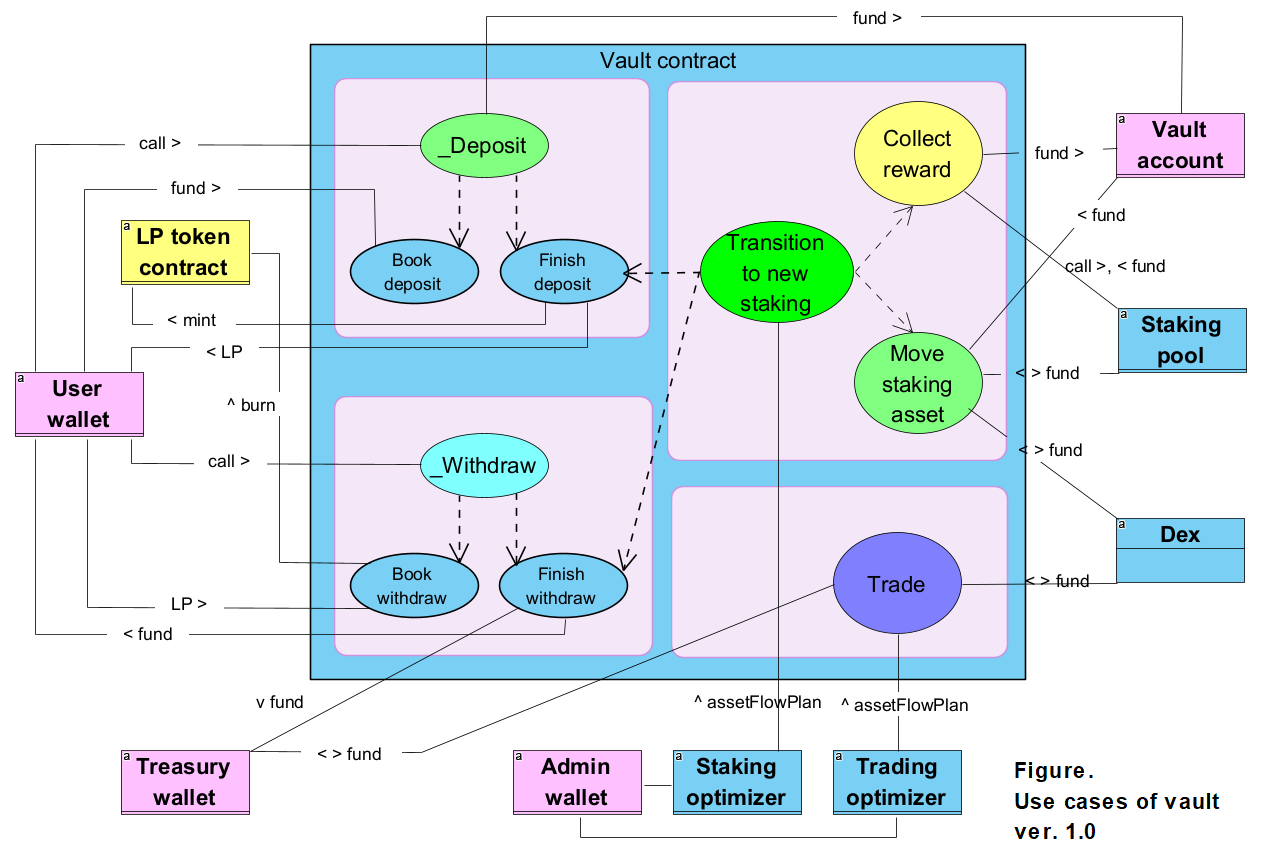
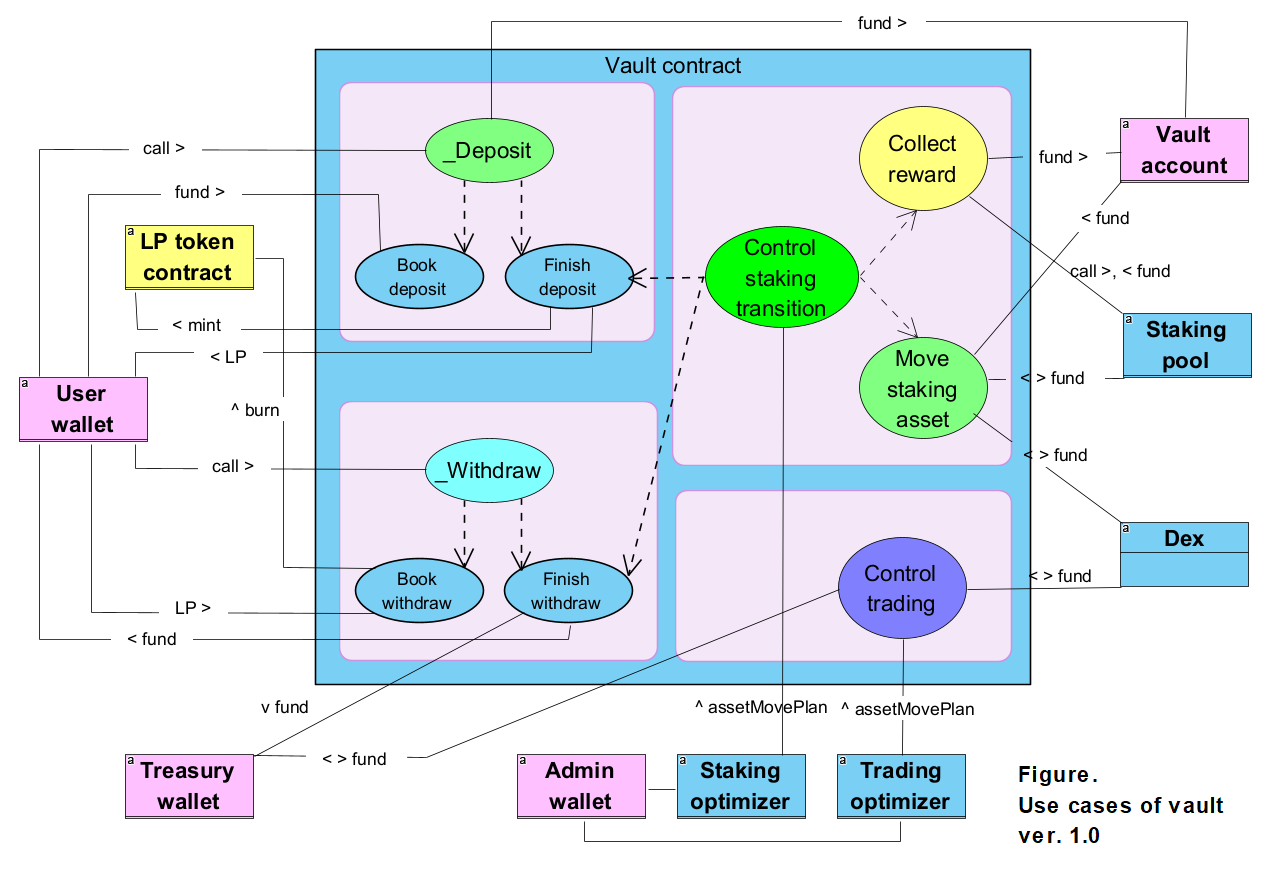
md

diff --git a/Architecture/Architecture.md b/Architecture/Architecture.md
@@ -17,18 +17,26 @@
 ### 1. Specifying system requirements
 <br/>
 
-- Major concepts and requirements: **Deposit**, **stake**, **compound**, **withdraw**
-    - A user is a wallet, technically. If a user has multiple wallets, the user is the wallet that is currently involved with Mozaic by the user's current action.
-    - A users **deposit**s their assets from their wallet to Mozaic vault wallet, in exchange with LP tokens.
-    - Mozaic **stake**s the deposited assets from vault wallet(s) to staking pools. Staking is on its behalf of Mozaic and not of individual users.
-    - Mozaic **stake**s rewards coming from its staking on its behalf. Or, Mozaic **compound**s rewards. Note: With compounding, the total assets become a mixture of deposited and rewarded assets.
-    - *Mozaic stakes on a collective basis.* All deposited assets are staked and performs collectively. You cannot track which user's deposit is staked on which staking pool and performs how distinctively.
-    - *Mozaic stakes on a global basis.* No matter what tokens on what chain a user deposits, Mozaic will convert freely the deposits to listed acceptable token on any listed chain, to maximize profit.
-    - **Staking stock** is the sum of total currently staked assets and total currently pending rewards on staking pools. 
-    - An amount of LP token held in a user's wallet represents the user's proportional share of **Staking stock**.
-    - A user's **Stock share** is part of **Staking stock** covered by the LP tokens held in the user's wallet.
-    - A user **withdraw**s assets from their **Stock share**, on a whole or partial basis, in any listed token they prefer.
+#### 1.1 Major concepts and requirements: **Deposit**, **stake**, **compound**, **withdraw**
+- A user is a wallet, technically. If a user has multiple wallets, the user is the wallet that is currently involved with Mozaic by the user's current action.
+- A users **deposit**s their assets from their wallet to Mozaic vault wallet, in exchange with LP tokens.
+- Mozaic **stake**s the deposited assets from vault wallet(s) to staking pools. Staking is on its behalf of Mozaic and not of individual users.
+- Mozaic **stake**s rewards coming from its staking on its behalf. Or, Mozaic **compound**s rewards. Note: With compounding, the total assets become a mixture of deposited and rewarded assets.
+- *Mozaic stakes on a collective basis.* All deposited assets are staked and performs collectively. You cannot track which user's deposit is staked on which staking pool and performs how distinctively.
+- *Mozaic stakes on a global basis.* No matter what tokens on what chain a user deposits, Mozaic will convert freely the deposits to listed acceptable token on any listed chain, to maximize profit.
+- **Staking stock** is the sum of total currently staked assets and total currently pending rewards on staking pools. 
+- An amount of LP token held in a user's wallet represents the user's proportional share of **Staking stock**.
+- A user's **Stock share** is part of **Staking stock** covered by the LP tokens held in the user's wallet.
+- A user **withdraw**s assets from their **Stock share**, on a whole or partial basis, in any listed token they prefer.
+<br>
 
+#### 1.2 Lawful responsibility and freedom of the system
+- **Guaranteed Withdrawal**: The system is legally obliged to allow a user to withdraw the full amount of assets that the user have deposited in the system, in XXX hours after the user's request.
+- **Unguaranteed Profit**: The system is not legally obliged to return profit to a user who deposited assets in the system.
+- **Guaranteed Asset Control**: No one other than the system can move assets/profits.
+- **Transparent Logging**: All asset/profit creation/move must be correctly logged in/at an available format and place.
+- **Transparent Profit**: The division of profit among users must be transparently in accordance with the promise.
+<br>
 
 Mozaic system has aggregational and DAO use cases.
 Aggregational use cases are shown in the following figure:
@@ -41,13 +49,13 @@ Aggregational use cases are shown in the following figure:
 
 The use cases and external actors are identified as below:
 - **Compound**: This hidden use case compounds rewards. Idle assets should not ba allowed, and all rewards should be compounded as much and soon as possible.
-- **Execute asset flow**: This use case checks, carry out, and keeps track of asset moves. The assets managed by the system can only be moved by this use case transparently.
-- **Deposit**: This use case deposits the user's assets in the system. **User** invokes this use case in the hope that Mozaic system will **Optimize staking** of the deposited assets for them. **User** should be able to deposit any token that is listed on Mozaic on any chain where Mozaic is deployed. This use case includes **Execute asset flow**.
-- **Withdraw**: This use case withdraws from the user's rewards and, if needed, deposited assets. **User** should be able to withdraw any token that is listed on Mozaic on any chain where Mozaic is deployed, no matter they deposited what token on which chain. (The deposited assets are increased by perpetual compounding of rewards.) **User** invokes this use case. This use case includes **Execute asset flow**.
-- **Optimize staking**: This use case upgrades the staking portfolio to maximize rewards. **Profit generator**, a role of the system, invokes this use case *either on a regular basis or at randomly picked times*. This use case includes **Execute asset flow** and **Compound**. *By providing **Execute asset flow** with **assetFlowPlan**, this use case effectively prevents it from being involved with finding optimal staking portfolio.*
-- **Trade**: This use case swaps idle assets to get profit by using price changes. It calls **Dex**. *By providing **Execute asset flow** with **AssetFlowPlan**, this use case effectively prevents it from being involved with finding optimal trading orders.*
-- **Collect reward**: This use case  collects rewards from Staking pools. Use case Execute asset flow, when it is working under **Optimize staking**, is extended by this use case. This use case calls **Staking pool**.
-- **Move staking asset**: This use case move assets to/between/from, **Staking pools**. **Execute asset flow**, when it is working under Optimize staking, is extended by this use case. This use case calls **Staking pool**.
+- **Control asset move**: This use case checks, carry out, and keeps track of asset moves. The assets managed by the system can only be moved by this use case transparently.
+- **Deposit**: This use case deposits the user's assets in the system. **User** invokes this use case in the hope that Mozaic system will **Optimize staking** of the deposited assets for them. **User** should be able to deposit any token that is listed on Mozaic on any chain where Mozaic is deployed. This use case includes **Control asset move**.
+- **Withdraw**: This use case withdraws from the user's rewards and, if needed, deposited assets. **User** should be able to withdraw any token that is listed on Mozaic on any chain where Mozaic is deployed, no matter they deposited what token on which chain. (The deposited assets are increased by perpetual compounding of rewards.) **User** invokes this use case. This use case includes **Control asset move**.
+- **Optimize staking**: This use case upgrades the staking portfolio to maximize rewards. **Profit generator**, a role of the system, invokes this use case *either on a regular basis or at randomly picked times*. This use case includes **Control asset move** and **Compound**. *By providing **Control asset move** with **assetMovePlan**, this use case effectively prevents it from being involved with finding optimal staking portfolio.*
+- **Trade**: This use case swaps idle assets to get profit by using price changes. It calls **Dex**. *By providing **Control asset move** with **assetMovePlan**, this use case effectively prevents it from being involved with finding optimal trading orders.*
+- **Collect reward**: This use case  collects rewards from Staking pools. Use case Control asset move, when it is working under **Optimize staking**, is extended by this use case. This use case calls **Staking pool**.
+- **Move staking asset**: This use case move assets to/between/from, **Staking pools**. **Control asset move**, when it is working under Optimize staking, is extended by this use case. This use case calls **Staking pool**.
 - **Dex**: This actor is a smart contract that swaps between assets. Examples are pairs on Curve and Balancer DeFis.
 - **Staking pool**: This actor is a smart contract that allocates reward to assets that are staked in it. Examples are farming pools on CBridge and Stargate DeFis. <br>
 
@@ -63,7 +71,7 @@ Asset management of the system has the following State Machine:
 
 ### 2. Identifying vaults through its surrounding modules
 <br>
-As the first implementation step, we identify the module that executes use case **Execute asset flow**, as it seems to act as the controller and be one of unique features of the system.
+As the first implementation step, we identify the module that executes use case **Control asset move**, as it seems to act as the controller and be one of unique features of the system.
 The design decisions are as illustrated in the following figure:
 <br><br>
 <p align="center">
@@ -71,25 +79,25 @@ The design decisions are as illustrated in the following figure:
 </p>
 
 Functional modules are described below:
-- **Secondary valut contract**: This module is a smart contract and deployed on each chain except the home chain. It participates in the cooperation with its peer **Secondary vault contract**s to implement **Execute asset flow**, This module has at least the following private operations that work locally on its chain: collect_reward(...) and move_staking_asset(...)
+- **Secondary valut contract**: This module is a smart contract and deployed on each chain except the home chain. It participates in the cooperation with its peer **Secondary vault contract**s to implement **Control asset move**, This module has at least the following private operations that work locally on its chain: collect_reward(...) and move_staking_asset(...)
 - **Master vault contract**: This module is a smart contract, has global operations, in addition to the local operations inherited from **Secondary vault contract**, and is deployed on one and only one of the chains, called **Home chain**, where it takes the role of **Secondary vault contract**, as well as the the unique role of the master vault operating **LP token contract**.
 - **LP token contract**: This module manages the LP token balances of **User**s, which represents the their proportional share of the total assets of the system. Their share comprises of their deposited assets plus automatic compounding. *It is a deliberate design decision that the LP token only exists on **Home chain**.*
 - **User wallet**: This is a blockchain wallet and identifies a **User**. **User**'s actions; like deposit, withdraw, and harvest; are authenticated/authorized with this wallet.
 - **Vault account**: It is the blockchain account of, and controlled by, **Secondary vault contract** and used to store temporary assets, like funds pending staking.
 - **Treasury wallet**: This is a blockchain wallet, and a place to store and retrieve system revenues, like fees. It will be better if it is not owned by a human, but be the account of a smart contract that only obeys vault contracts, for better decentralization. It is deployed on all chains.
-- **Staking optimizer**: This is an off-chain module that can invoke **Master vault contract**. This module is globally unique, calculates optimal **assetFlowPlan**s, and lets the master vault to execute the plans (in cooperation with secondary vaults). *It is an important design decision that the assetFlowPlan is calculated off-chain, thus leading to transparency and security debates, for the sake of gas- and time- savings:*
-    - Transparency debate: **User**s will not be able to track why the system chose particular **assetFlowPlan**s technically.
-    - Security debate: If the calculation of **assetFlowPlan** is hacked or compromised, then the system will make a less-optimal staking manuever.
+- **Staking optimizer**: This is an off-chain module that can invoke **Master vault contract**. This module is globally unique, calculates optimal **assetMovePlan**s, and lets the master vault to execute the plans (in cooperation with secondary vaults). *It is an important design decision that the assetMovePlan is calculated off-chain, thus leading to transparency and security debates, for the sake of gas- and time- savings:*
+    - Transparency debate: **User**s will not be able to track why the system chose particular **assetMovePlan**s technically.
+    - Security debate: If the calculation of **assetMovePlan** is hacked or compromised, then the system will make a less-optimal staking manuever.
     - Justification: Only the second of the following concerns becomes less transparent, leading to both un-assured best profitability and assured huge gas- and time- savings.
         - how much of what assets from which pool to which pool, is the move about
         - whether all the asset moves are securely and/or reasonably/optimally chosen
         - whether all the asset moves are securely executed and logged
         - whether the move logs are readily available to check later
-        - whether the execution of assetFlowPlan is integrated
+        - whether the execution of assetMovePlan is integrated
 - **Trading optimizer**: This off-chain module is similar to **Staking optimizer**, except it relates to trading.
 - **Adimin wallet**: This wallet is used to invoke **Master vault contract", in privilege, on behalf of the administrator.
 - **Staking planner**: An integral component of **Staking optimizer**, this module predicts the next most profitable **staking_portfolio**, based on **poolsInfo** provided by **Pools tracker**. Running this module on-chain would enhance transparency, but would at the same time incur huge gas fee and effectively disable the system.
-- **Transition planner**: An integral component of **Staking optimizer**, this module predicts the most efficient **assetFlowPlan**, which is the best procedure of asset move that implements the transitioning to a given **staking_portfolio**, based on the current **poolsInfo**.
+- **Transition planner**: An integral component of **Staking optimizer**, this module predicts the most efficient **assetMovePlan**, which is the best procedure of asset move that implements the transitioning to a given **staking_portfolio**, based on the current **poolsInfo**.
 - **Trading optimizer**: This is similar to **Staking optimizer**, except that it relates trading.
 - **Trading planner**: This is similar to **Staking planner**, except that it relates trading.
 - **Pools tracker**: A shared module between **Staking optimizer** and **Trading optimizer**, this module retrieves and tracks all relevant information from chains, like Reward Release Speed, and total Staked LP of each pool. Running this module on-chain would enhance transparency, but would at the same time incur huge gas fee and effectively disable the system.
@@ -116,7 +124,7 @@ The external actors in the following use case diagram, together with their inter
     - retrieves the booked deposit request, 
     - mints LP tokens to cover the new fund, 
     - returns the LP tokens to **User wallet**,
-    - and helps **Transition to new staking** stake the fund.
+    - and helps **Control staking transition** stake the fund.
 - **_Withdraw**: This is what happens at the level of vault contracts when **Withdraw** use case is invoked at the system level. Invoked by **User wallet** with LP tokens returned, this used case coordinates the following two use cases.
 - **Book withdraw**: This use case 
     - collects the returned LP tokens,
@@ -128,13 +136,13 @@ The external actors in the following use case diagram, together with their inter
     - retrieves the books withdrawal request,
     - subtract fund, as much as covered by the returned LP tokens, from the total system assets, and
     - returns the fund to **User wallet**
-- **Transition to new staking**: This use case transitions to a new asset state by executing **assetFlowPlan** provided by **Staking optimizer**. (This is the most challenging part of vault implementation.) It does *collectively*, by using **Move staking asset**,
+- **Control staking transition**: This use case transitions to a new asset state by executing **assetMovePlan** provided by **Staking optimizer**. (This is the most challenging part of vault implementation.) It does *collectively*, by using **Move staking asset**,
     - **Collect reward**,
     - Collect staked assets, to cover the fund to **Finish withdraw**,
     - **Finish deposit**,
     - **Finish withdraw**,
-    - execute remaining part of **assetFlowPlan**
-- **Trade**: This use case executes **AssetFlowPlan** provided by **Trading optimizer**.
+    - execute remaining part of **assetMovePlan**
+- **Control trading**: This use case executes **assetMovePlan** provided by **Trading optimizer**.
 
 <div style="page-break-after: always;"></div>
 
@@ -285,14 +293,22 @@ $optimial \space S^{t} = USDT^{-1} \circ FOP \circ Sum \circ USDT^{+1} (T, \spac
 - $S^t$ is found when we "Collect reward" pending rewards.
 <br>
 
+
+The formula essentially does:
+- collect all available assets: deposits pending staking, less withdrawals pending, plus rending rewards, and the current staking.
+- transform them to USDT and sums up to get a single number: Total in USDT.
+- allocate the Total in USDT optimally across all staking pools.
+- transform the allocated USDT amount back to the native tokens for the staking pools.
+<br><br>
+
 <div style="page-break-after: always;"></div>
 
-### 5. Algorithm of Transition planner
+### **5. Algorithm for Transition planner**
 <br>
 
-#### 5.1 Mozaic LP token will only be present on the home chain.
+#### **5.1 Mozaic LP token will only be present on the home chain**
 - LP token can be deployed on any chain(s). According to the requirements, users can deposit any token on any chain and withdraw any token on any chain. It doesn't matter which chain their LP token belongs to.
-- If LP token is deployed on multiple chains, there might be significantly bad user experience and cost overhead:
+- If LP token is deployed on multiple chains, there might be significantly bad user experience and cost overhead, because collecting asset from a wallet requires the user's engagement and wallet connection.
     - A user's wallet may have multiple versions of LP token, although they equally represent the user's, global, Stock share. This poses inconvenience to withdrawal UI and to users. Users will have to think in terms of "how much of what LP tokens to return", instead of "how much LP tokens to return".
     - Suppose the user chooses multiple LP versions to return. Either off-chain modules will have to ask the user to switch the wallet to each of the multiple chains, in turn, to enable the vault on that chain to collect back the LP token on the chian, in an inconvenient and in-secure way; or the user will have to invoke withdrawal process multiple times each focusing on one of the LP versions; in an inconvenient and secure way. Or, the user will have to swap the LP versions into a single LP version, before invoking withdrawal.
     - When depositing, on the other hand, users will have to choose which LP token version to receive, although they equally represent the user's global Stock share. The vault that is serving a user's deposit, will have to send an LP message to the chain where the user-chosen LP version presents, if the user's deposit token and their chosen LP version are on different chains. (Batch messaging might mitigate this a little.)
@@ -300,7 +316,7 @@ $optimial \space S^{t} = USDT^{-1} \circ FOP \circ Sum \circ USDT^{+1} (T, \spac
 - If there is critics that solo LP version, which is naturally deployed on the home chain, will force Mozaic system to transfer to, or send LZ message to, the, non-home, chain on which the user wants to withdraw a token type, then we can say the message will rarely serve a single user but mostly several users in batch, because the withdrawals happen while transitioning to a new staking when all booked deposit requests are handled.
 <br>
 
-#### 5.2 Task definition for Transition planner
+#### **5.2 Task definition for Transition planner**
 <br>
 
 - Goal: Calculate best transition asset flow plan, in order to
@@ -326,7 +342,7 @@ $optimial \space S^{t} = USDT^{-1} \circ FOP \circ Sum \circ USDT^{+1} (T, \spac
 - Process
     - Find a step-by-step logical procedure of asset flow instructions that implements the following transition:
 
-    $$\begin{CD} \space \space  \space \space \space \space MS^t = (T,\space D^t,\space - \space W^t,\space R^t,\space S^t) @> (Resulting \space transition) >> MS^{t+} = (T,\space 0D,\space - \space 0W,\space 0R,\space optimal \space S^t) \space  \space \space \space \space \space \space \space \space \end{CD}$$
+    $$\begin{CD} \space \space \space \space \space \space  \space \space \space \space MS^t = (T,\space D^t,\space - \space W^t,\space R^t,\space S^t) @> (Resulting \space transition) >> MS^{t+} = (T,\space 0D,\space - \space 0W,\space 0R,\space optimal \space S^t) \space  \space \space \space \space \space \space \space \space \end{CD}$$
 
     - Regularize the procedure by Removing mutually/transitively cancelling asset moves in the procedure
     - 
@@ -334,12 +350,33 @@ $optimial \space S^{t} = USDT^{-1} \circ FOP \circ Sum \circ USDT^{+1} (T, \spac
 <br>
 
 - Output
-    - $assetFlowPlan^t$
+    - $assetMovePlan^t$
 
 <br>
 
-#### 5.3 Algorithm for Transition planner
+#### **5.3 Formulae**
 
+- Both deposit and withdrawal have future tense.
+    - when a user deposits, let them know approximate LP amount based on the past sync.
+    - when a user withdraws, let them know approximate token amount based on the past sync.
+
+    - on-chain 
+    - on-chain: M: Snapshot withdraw requests. send withdraw requests.
+    - on-chain: S: Snapshot local S and deposit requests. Collect R.
+    - on-chain: S->M send local S and local R
+    - on-chain:  Find USDT(S+R)
+    - on-chain: Find W based on their LP, Total LP, and USDT(S+R). Do not return W yet.
+    - on-chain: Find LP for D, based on USDT(D), Total LP, and USDT(S+R). Return LP at the same time.
+    - off-chain: Find assetMovePlan, based on S, R, D, W, and poolsInfo.
+    - on-chain: Return W after transitioning to the optimal S.
+    - on-chain: Execute assetMovePlan, finishing D and W, furnished by assetMovePlan.
+
+
+- rebalance fee will be imposed on withdrawal if it makes more deficit of a token in the coming opt.
+- rebalance fee will be imposed on deposit if it makes more surplus of a token in the coming opt.
+
+
+    
 
 
 
